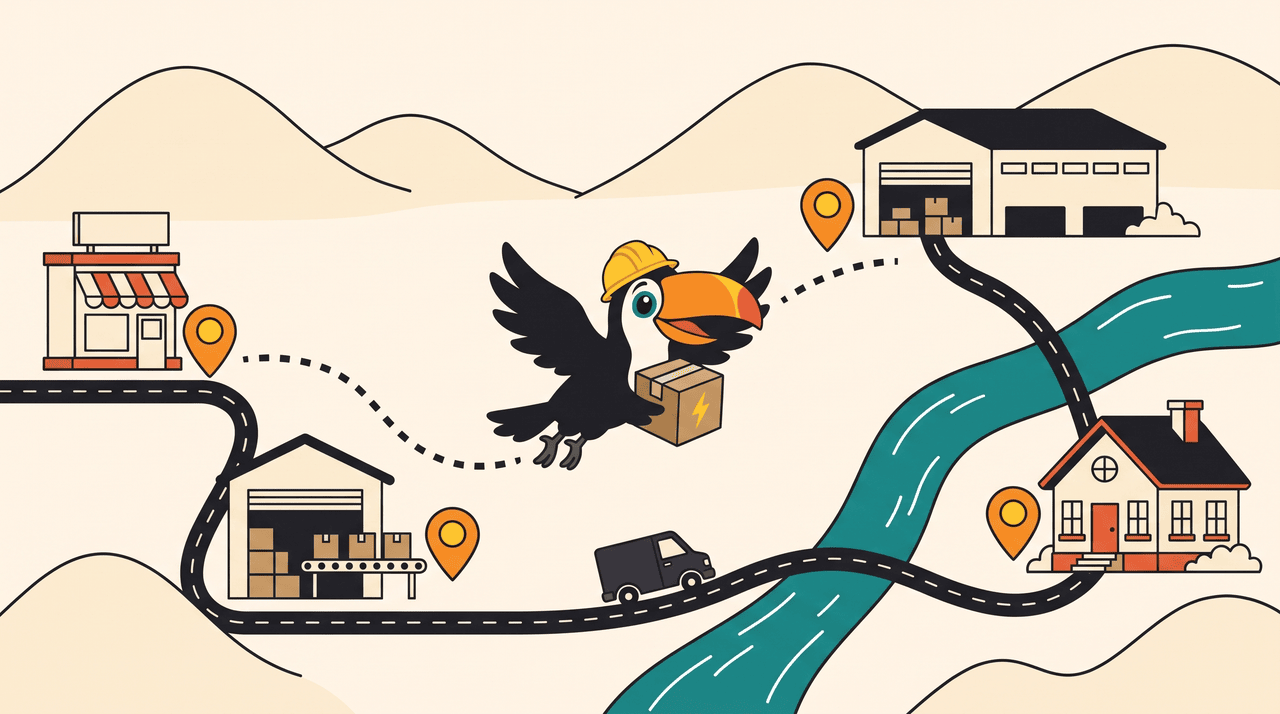
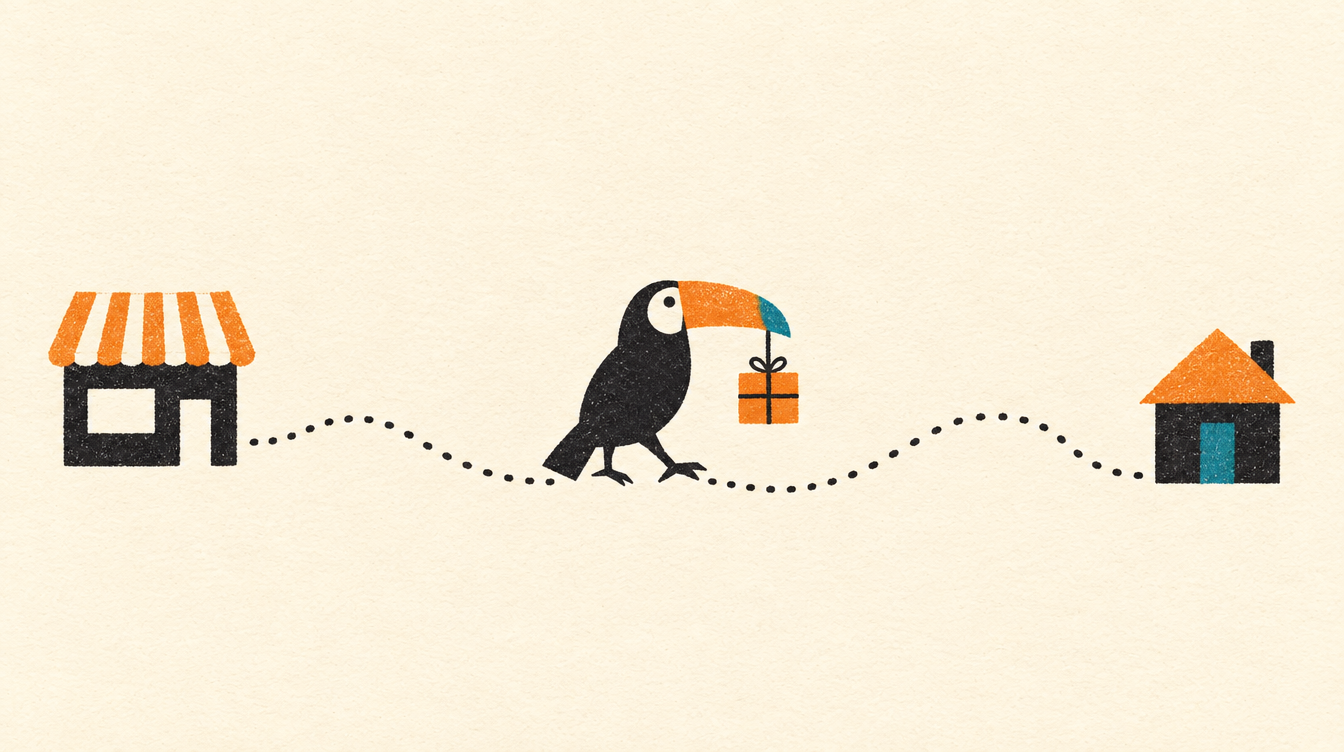
feat(art): redraw the tucano and its scenes as a three-ink print
The old art was busy and glossy: a mascot in a hard hat among servers,
seesaws and conveyor belts, a dozen ideas per picture. The new one is a
toucan made of a few flat shapes, three inks on paper with a visible
grain, and each picture tells one idea only.

The originals stay untouched in docs/assets, and the screen spots get
their own folder there. The web no longer ships them byte for byte:
make web-art derives a 58 KB WebP banner from the 4 MB original, 512 px
WebP spots, and icons cropped around the bird with a 64-color palette.
Spots carry their paper, so they show as a light rounded card in the
dark theme too. The store screenshots were retaken.

diff --git a/services/web/src/components/Illustration.tsx b/services/web/src/components/Illustration.tsx
@@ -7,24 +7,24 @@ type Entry = {
   readonly alt: string;
 };
 
-// The four moments the mascot shows up in the app (docs/assets/README.md). Files are the
-// untouched originals, copied byte for byte into public/illustrations.
+// The four moments the mascot shows up in the app (docs/assets/README.md). The originals live
+// in docs/assets/ui; these are the copies `make web-art` sizes for the screen.
 const ILLUSTRATIONS: Readonly<Record<IllustrationName, Entry>> = {
   empty: {
-    file: 'ui-empty.png',
-    alt: 'Tucano com capacete de segurança segurando uma caixa de papelão vazia e aberta',
+    file: 'ui-empty.webp',
+    alt: 'O tucano espiando dentro de uma sacola de compras vazia',
   },
   'not-found': {
-    file: 'ui-not-found.png',
-    alt: 'Tucano com capacete de segurança lendo um mapa ao lado de uma caixa de papelão com um raio desenhado',
+    file: 'ui-not-found.webp',
+    alt: 'O tucano olhando para uma placa com três setas em branco, cada uma apontando para um lado',
   },
   error: {
-    file: 'ui-error.png',
-    alt: 'Tucano com capacete de segurança apagando com um extintor um servidor que solta faíscas',
+    file: 'ui-error.webp',
+    alt: 'O tucano segurando no bico a ponta de um cabo cortado, com a outra ponta no chão',
   },
   success: {
-    file: 'ui-success.png',
-    alt: 'Tucano com capacete de segurança e asas abertas ao lado de uma caixa de papelão marcada com certo, cercado de confete',
+    file: 'ui-success.webp',
+    alt: 'O tucano de asa erguida ao lado de uma encomenda fechada com laço',
   },
 };
 
@@ -39,8 +39,8 @@ export function Illustration({ name, className }: IllustrationProps): ReactEleme
     <img
       src={`/illustrations/${file}`}
       alt={alt}
-      width={1024}
-      height={1024}
+      width={512}
+      height={512}
       loading="lazy"
       decoding="async"
       className={className}

diff --git a/services/web/src/screens/HomeScreen.tsx b/services/web/src/screens/HomeScreen.tsx
@@ -22,14 +22,14 @@ export function HomeScreen({ screen }: { readonly screen: SirenScreen }): ReactE
             </Link>
           ) : null}
         </div>
-        {/* The banner of the brand, the original file from docs/assets: decorative, so it says
-            nothing to a screen reader, and sized up front so the page does not jump. */}
+        {/* The banner of the brand, derived from docs/assets by `make web-art`: decorative, so
+            it says nothing to a screen reader, and sized up front so the page does not jump. */}
         <img
           className="home-hero__art"
-          src="/illustrations/banner.png"
+          src="/illustrations/banner.webp"
           alt=""
           width={1600}
-          height={679}
+          height={686}
           decoding="async"
           fetchPriority="high"
         />

diff --git a/services/web/src/screens/HomeScreen.css b/services/web/src/screens/HomeScreen.css
@@ -13,14 +13,15 @@
   padding: var(--space-5) var(--space-5) 0;
 }
 
-/* Narrow screens crop the banner around the tucano, so it does not shrink into the scenery. */
+/* Narrow screens crop the banner around the tucano, so it does not shrink into the scenery:
+   the bird and its parcel live between 55% and 85% of the width. */
 .home-hero__art {
   display: block;
   width: 100%;
   height: auto;
   aspect-ratio: 4 / 3;
   object-fit: cover;
-  object-position: 60% 50%;
+  object-position: 92% 50%;
 }
 
 .home-hero__headline {

diff --git a/services/web/src/components/ProblemView.css b/services/web/src/components/ProblemView.css
@@ -11,6 +11,7 @@
   width: min(220px, 60vw);
   height: auto;
   margin-bottom: var(--space-2);
+  border-radius: var(--radius-lg);
 }
 
 .problem-view__detail {

diff --git a/services/web/src/components/EmptyState.css b/services/web/src/components/EmptyState.css
@@ -11,6 +11,7 @@
   width: min(200px, 55vw);
   height: auto;
   margin-bottom: var(--space-2);
+  border-radius: var(--radius-lg);
 }
 
 .empty-state__title {

diff --git a/scripts/web-art.py b/scripts/web-art.py
@@ -1,0 +1,93 @@
+#!/usr/bin/env python3
+"""Derives the images the web serves from the originals in docs/assets.
+
+The originals stay as they were delivered, metadata included, and are what the README and
+the guide show. The web gets copies sized for the screen: the banner and the four spots in
+WebP, a fraction of the weight of the PNGs, and the icons in PNG, cropped around the tucano.
+
+Run it through `make web-art` after an original changes, and commit what it writes.
+"""
+
+from __future__ import annotations
+
+from pathlib import Path
+
+from PIL import Image, ImageChops, ImageFilter
+
+ROOT = Path(__file__).resolve().parent.parent
+ASSETS = ROOT / "docs" / "assets"
+PUBLIC = ROOT / "services" / "web" / "public"
+
+# The hero is at most 1080 px wide (--content-width), and a spot at most 220 px: this leaves
+# room for a denser screen without shipping the 2688 px original.
+BANNER_WIDTH = 1600
+SPOT_SIDE = 512
+WEBP_QUALITY = 82
+
+ICONS = {
+    "logo-256.png": 256,
+    "icon-512.png": 512,
+    "icon-192.png": 192,
+    "apple-touch-icon-180.png": 180,
+    "favicon-64.png": 64,
+}
+
+# How far a pixel has to be from the paper to count as ink, and the breathing room the
+# icons keep around the bird, as a fraction of the side.
+INK_THRESHOLD = 64
+ICON_MARGIN = 0.06
+
+# The grain of the paper makes a full-color PNG heavy. An octree palette of 64 colors keeps
+# the three inks true (median cut turns the teal tip grey) at a fifth of the weight.
+ICON_COLORS = 64
+
+
+def main() -> None:
+    illustrations = PUBLIC / "illustrations"
+    illustrations.mkdir(parents=True, exist_ok=True)
+
+    banner = Image.open(ASSETS / "banner.png").convert("RGB")
+    height = round(banner.height * BANNER_WIDTH / banner.width)
+    save_webp(banner.resize((BANNER_WIDTH, height), Image.Resampling.LANCZOS), illustrations / "banner.webp")
+
+    for spot in sorted((ASSETS / "ui").glob("*.png")):
+        image = Image.open(spot).convert("RGB")
+        save_webp(image.resize((SPOT_SIDE, SPOT_SIDE), Image.Resampling.LANCZOS), illustrations / f"ui-{spot.stem}.webp")
+
+    tile = around_the_ink(Image.open(ASSETS / "tucano.png").convert("RGB"))
+    for name, side in ICONS.items():
+        target = PUBLIC / name
+        icon = tile.resize((side, side), Image.Resampling.LANCZOS)
+        icon.quantize(ICON_COLORS, Image.Quantize.FASTOCTREE, dither=Image.Dither.FLOYDSTEINBERG).save(target, optimize=True)
+        print(f"{target.relative_to(ROOT)}  {side}x{side}  {target.stat().st_size // 1024} KB")
+
+
+def save_webp(image: Image.Image, target: Path) -> None:
+    image.save(target, "WEBP", quality=WEBP_QUALITY, method=6)
+    print(f"{target.relative_to(ROOT)}  {image.width}x{image.height}  {target.stat().st_size // 1024} KB")
+
+
+def around_the_ink(image: Image.Image) -> Image.Image:
+    """The smallest square around what is printed on the paper, plus a margin.
+
+    The paper is the color of a corner. The grain of the paper would count as ink here and
+    there, so the mask goes through a median filter before its box is taken.
+    """
+    paper = Image.new("RGB", image.size, image.getpixel((0, 0)))
+    distance = ImageChops.difference(image, paper).convert("L")
+    ink = distance.point(lambda value: 255 if value > INK_THRESHOLD else 0).filter(ImageFilter.MedianFilter(5))
+    box = ink.getbbox()
+    if box is None:
+        raise SystemExit("no ink found on the mascot: is docs/assets/tucano.png a blank page?")
+
+    left, top, right, bottom = box
+    side = round(max(right - left, bottom - top) * (1 + 2 * ICON_MARGIN))
+    side = min(side, image.width, image.height)
+    center_x, center_y = (left + right) / 2, (top + bottom) / 2
+    x = min(max(round(center_x - side / 2), 0), image.width - side)
+    y = min(max(round(center_y - side / 2), 0), image.height - side)
+    return image.crop((x, y, x + side, y + side))
+
+
+if __name__ == "__main__":
+    main()

diff --git a/docs/assets/README.md b/docs/assets/README.md
@@ -1,10 +1,10 @@
 # Identidade visual
 
-<img src="tucano.png" alt="O tucano da Tucano: corpo grafite, peito creme, bico laranja com faixa amarela e ponta coral, capacete amarelo e uma caixa de papelão com um raio desenhado" width="220" align="right">
+<img src="tucano.png" alt="O tucano da Tucano, de perfil: corpo preto, uma mancha clara em volta do olho e o bico laranja com a ponta teal, impresso em três tintas sobre papel creme" width="220" align="right">
 
-A Tucano tem um mascote: um tucano de capacete, com uma caixa de entrega debaixo da asa. O capacete é o laboratório, onde a gente quebra coisas de propósito com equipamento de segurança. A caixa é o negócio, uma loja com entrega própria. O raio na caixa é o caos controlado.
+A Tucano tem um mascote: um tucano de perfil, feito de poucas formas chapadas e impresso como numa risografia, com três tintas sobre papel creme, o grão do papel e o leve desencontro de uma gráfica pequena. Eu queria um desenho que parecesse feito à mão, com uma ideia só e nenhum brilho, e não mais uma ilustração que some no meio de tantas parecidas.
 
-Ele aparece no README, nos capítulos do guia e nas telas da web: vazio, não encontrado, sucesso e erro.
+Ele aparece no README, nos capítulos do guia e nas telas da web. Em cada desenho ele faz uma coisa só, e essa coisa é a ideia do lugar onde ele está: pula a pedra que falta no rio (o sistema segue quando uma peça some), leva a encomenda pela trilha (a jornada de um pedido), empilha blocos de formas diferentes (as stacks), pendura mais um recibo no varal sem tirar nenhum (a informação como fatos que só se acumulam), puxa um plugue de propósito enquanto a lâmpada continua acesa (o caos com hipótese) e mora dentro de um hexágono com portas para o mundo (as abstrações).
 
 ## Cores
 
@@ -36,19 +36,36 @@ No tema escuro, `paper` e `ink` trocam de lugar. `beak`, `sun` e `coral` funcion
 
 ## Regras de uso
 
-- O tucano não muda de cor: o bico é laranja, amarelo e coral, e o corpo é grafite. Em fundo escuro, ele vai com a margem de respiro que já tem.
+- O tucano não muda de cor: corpo `ink`, a mancha do olho no tom do papel e o bico `beak` com a ponta `teal`.
+- As ilustrações usam três tintas, `ink`, `beak` e `teal`, sobre `paper`. `sun` e `coral` ficam para a interface: selo, aviso e erro.
+- Uma ideia por ilustração, com bastante papel em volta. Se um desenho precisa de legenda para ser entendido, tem coisa demais nele.
 - Nenhuma ilustração tem texto dentro. Título e legenda ficam no HTML ou no Markdown, onde dá para traduzir, buscar e ler com leitor de tela.
 - Toda imagem tem `alt` descrevendo o que ela mostra, e não o que ela significa para o layout.
-- O traço é vetorial e chapado, com contorno escuro. Uma ilustração nova segue o mesmo estilo e a mesma paleta.
+- As ilustrações trazem o próprio papel, então aparecem como um cartão claro de cantos arredondados, também no tema escuro.
 
 ## Arquivos
 
-| Arquivo | O que é |
+Os originais ficam aqui como chegaram, sem edição e com os metadados de procedência que vieram com eles. O README e o guia mostram os originais.
+
+| Arquivo | O que mostra |
 |---|---|
-| [`tucano.png`](tucano.png) | o mascote, 2048 x 2048, fundo transparente; o original de onde saem os ícones da web |
-| [`banner.png`](banner.png) | o playground do caos, no topo do README |
-| [`guia/caos.png`](guia/caos.png) | o tucano no painel de controle, derrubando servidores de propósito |
-| [`guia/stacks.png`](guia/stacks.png) | o tucano regendo uma orquestra de máquinas diferentes |
-| [`guia/informacao.png`](guia/informacao.png) | o cofre dos registros exatos e o rio das cópias que chegam depois |
-| [`guia/jornada.png`](guia/jornada.png) | a encomenda voando da loja até a casa, passando pelo CD e pelo hub |
-| [`guia/abstracoes.png`](guia/abstracoes.png) | a bagunça de cabos virando gavetas hexagonais arrumadas |
+| [`tucano.png`](tucano.png) | o mascote, 1024 x 1024; o original de onde saem os ícones da web |
+| [`banner.png`](banner.png) | o tucano pulando a pedra que falta no rio, com a encomenda no bico; no topo do README e na home da loja |
+| [`guia/jornada.png`](guia/jornada.png) | a encomenda indo da loja até a casa pela trilha |
+| [`guia/stacks.png`](guia/stacks.png) | blocos de formas diferentes, empilhados sem cair |
+| [`guia/informacao.png`](guia/informacao.png) | o varal de recibos: cada fato novo entra no fim, e nenhum sai |
+| [`guia/caos.png`](guia/caos.png) | um plugue puxado de propósito, e a lâmpada ainda acesa |
+| [`guia/abstracoes.png`](guia/abstracoes.png) | o hexágono com o tucano dentro e as portas para o mundo |
+| [`ui/empty.png`](ui/empty.png) | a sacola vazia, para uma lista sem nada |
+| [`ui/not-found.png`](ui/not-found.png) | a placa de setas em branco, para o que não foi encontrado |
+| [`ui/error.png`](ui/error.png) | o cabo cortado, para quando algo falhou |
+| [`ui/success.png`](ui/success.png) | a encomenda fechada com laço, para o que deu certo |
+
+## Do original para a web
+
+A web não serve os originais: o banner tem 2688 px e 4 MB, e a home não precisa de nada disso. O `make web-art` roda o `scripts/web-art.py` num container Python e gera, em `services/web/public`:
+
+- o banner em WebP, com 1600 px e menos de 60 KB, e as quatro ilustrações das telas em WebP, com 512 px e uns 16 KB cada;
+- os ícones (o logo do cabeçalho, o favicon, o da tela inicial do iPhone e os dois do manifesto), recortados em volta do tucano e com uma paleta de 64 cores, que guarda as três tintas sem pesar.
+
+Trocar uma ilustração é trocar o original aqui e rodar `make web-art`. As cópias vão para o Git junto, porque a imagem da web é construída sem Python.

diff --git a/CHANGELOG.md b/CHANGELOG.md
@@ -7,6 +7,12 @@ Todas as mudanças relevantes ficam registradas aqui. O formato segue o [Keep a 
 ### Added
 
 - Experimentos de caos como código (ADR 0025): quatro experimentos do Chaos Toolkit em `chaos/experiments`, cada um com o estado estável conferido antes da falha e de novo com ela ativa, e rollbacks que rodam sempre. O PSP lento abre o circuit breaker e pagar passa a responder `503` em 0,10 s; o commerce cortado derruba só as telas dele; o catálogo lento faz o BFF desistir em 5 s; e, sem nenhum webhook do PSP, a conciliação ainda traz o desfecho em pouco mais de um minuto. As sondas compram pela loja seguindo a hipermídia do BFF, e pagam com o cartão recusado para devolver o estoque. `make experiments` lista, `make experiment e=<nome>` roda, e o CI valida cada experimento.
+- `make web-art` (`scripts/web-art.py`, num container Python): gera as imagens da web a partir dos originais em `docs/assets`. O banner vai em WebP com 1600 px (58 KB, contra 4 MB do original), as quatro ilustrações das telas em WebP com 512 px, e os ícones saem recortados em volta do tucano, com uma paleta de 64 cores que guarda as três tintas.
+
+### Changed
+
+- Identidade visual redesenhada: o tucano virou uma figura de poucas formas chapadas, em três tintas sobre papel, com o grão de uma impressão pequena, e cada ilustração conta uma ideia só (a pedra que falta no rio, o varal de recibos, o plugue puxado com a lâmpada acesa, o hexágono com portas). Os originais ficam intactos em `docs/assets`, as ilustrações das telas ganharam a pasta `docs/assets/ui`, e as capturas da loja foram refeitas.
+- As ilustrações das telas trazem o próprio papel e aparecem como um cartão claro de cantos arredondados, também no tema escuro.
 
 ## [0.8.0] - 2026-09-28
 

diff --git a/README.md b/README.md
@@ -1,5 +1,5 @@
 <p align="center">
-  <img src="docs/assets/banner.png" alt="O tucano da Tucano, de capacete, segurando uma caixa entre um rack de servidores, uma gangorra com um banco de dados e uma esteira de encomendas" width="100%">
+  <img src="docs/assets/banner.png" alt="O tucano da Tucano pulando o vão de uma pedra que falta num rio, com uma encomenda pendurada no bico" width="100%">
 </p>
 
 # chaos_playground
@@ -20,7 +20,7 @@ O projeto calibra e relembra stacks. Cada linguagem está onde o trabalho dela f
 
 | | |
 |---|---|
-| ![A home da loja, com o tucano segurando uma caixa e o botão Ver o catálogo](docs/assets/telas/loja.png) | ![O checkout com quatro erros de validação listados num resumo e mostrados ao lado de cada campo](docs/assets/telas/checkout.png) |
+| ![A home da loja, com o tucano pulando a pedra que falta no rio e o botão Ver o catálogo](docs/assets/telas/loja.png) | ![O checkout com quatro erros de validação listados num resumo e mostrados ao lado de cada campo](docs/assets/telas/checkout.png) |
 | ![Um pedido entregue, com o selo Entregue, o código de rastreio e o botão Acompanhar a entrega](docs/assets/telas/pedido.png) | ![A página de rastreio, com a transportadora, o destino e a linha do tempo da entrega](docs/assets/telas/rastreio.png) |
 
 A tela do pedido se atualiza sozinha enquanto algo está para acontecer: "Confirmando o pagamento", "Pagamento aprovado", "A caminho", "Entregue". Com o cartão de teste recusado, ela termina em "Cancelado" e diz por quê.

diff --git a/services/web/README.md b/services/web/README.md
@@ -58,7 +58,7 @@ Uma tela com `"live"` na classe pede para ser buscada de novo pelo link `self`, 
 
 ## A home
 
-A home usa o banner da identidade, o arquivo original de `docs/assets`, copiado byte a byte para `public/illustrations`. Ele é decorativo (`alt=""`), vem com largura e altura para a página não pular, e o texto fica sobre o terço vazio dele em tela larga. No celular, o banner vai para baixo do texto, recortado em volta do tucano. Como o banner é claro nos dois temas, o herói é um cartão claro também no tema escuro, e o texto por cima dele fica na cor tinta da paleta.
+A home usa o banner da identidade. O original mora em `docs/assets`, com 2688 px e 4 MB; a web serve uma cópia em WebP com 1600 px e menos de 60 KB, que o `make web-art` gera a partir dele junto com as ilustrações das telas e os ícones. O banner é decorativo (`alt=""`), vem com largura e altura para a página não pular, e o texto fica sobre o terço vazio dele em tela larga. No celular, o banner vai para baixo do texto, recortado em volta do tucano. Como o banner é claro nos dois temas, o herói é um cartão claro também no tema escuro, e o texto por cima dele fica na cor tinta da paleta.
 
 ## Tokens e tema
 

diff --git a/docs/guia/01-a-tucano.md b/docs/guia/01-a-tucano.md
@@ -1,6 +1,6 @@
 # 1. A Tucano e a jornada de um pedido
 
-![O tucano voando com uma caixa da loja ao centro de distribuição e dele até a casa do cliente, sobre estradas e um rio](../assets/guia/jornada.png)
+![O tucano levando uma encomenda pendurada no bico por uma trilha pontilhada, da loja de toldo listrado até uma casa de porta teal](../assets/guia/jornada.png)
 
 A Tucano vende livros, eletrônicos, casa e esporte, e entrega com frota própria, a Tucano Express, ou com três transportadoras parceiras. O negócio é inventado; o problema, não. Um pedido atravessa estoque, pagamento, etiqueta, coleta, hubs e porta de casa, e em cada passagem de mão alguma coisa pode dar errado. Por isso escolhi esse domínio: ele é pequeno o bastante para caber na minha máquina e grande o bastante para ter todas as falhas que interessam.
 

diff --git a/docs/guia/05-abstracoes.md b/docs/guia/05-abstracoes.md
@@ -1,6 +1,6 @@
 # 5. Abstrações que seguram a entropia
 
-![O tucano guardando uma caixa num armário de gavetas hexagonais, cada uma com um ícone; ao lado, uma pilha emaranhada de cabos e caixas](../assets/guia/abstracoes.png)
+![Uma casinha de passarinho em forma de hexágono, com o tucano dentro; de uma abertura sai um cabo com plugue, e na outra se apoia uma escada](../assets/guia/abstracoes.png)
 
 Código cresce para o emaranhado sozinho, sem ninguém querer. Cada atalho parece barato no dia e cobra juros depois. As abstrações deste projeto existem para uma coisa só: fazer uma mudança continuar local conforme o sistema cresce. Quando uma abstração não ajuda nisso, ela não entra.
 
